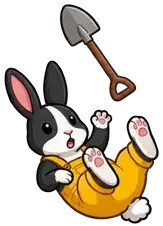
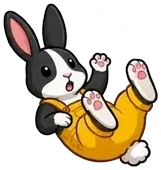
Clean redundant sprite props, add game rules & phase HUD, animate controller NPCs

diff --git a/games/i18n.js b/games/i18n.js
@@ -32,6 +32,73 @@ const GAME_TITLES_VI = {
   'Golden Carrot Bunny Dash': 'Thỏ Đua Cà Rốt Vàng'
 };
 
+const GAME_RULES = {
+  en: {
+    'Duck Slide Race': 'Ducks race to the GOLD buoy — watch out for whirlpools, waves & fake red buoys!',
+    'Mischievous Dino Eggs': '10 dino eggs wobble & swap — the first hatch is a rubber chicken, then Mama Dino picks the real egg!',
+    'Rebellious Cauldron': '10 magic orbs swirl around the cauldron — the frog zaps the real orb onto the winner\'s podium!',
+    'Dragon Treasure Guard': 'Chests shuffle while the dragon patrols — the first chest has a rubber duck, then the dragon sneezes out the real treasure!',
+    'Faulty Robot Factory': 'Robots roll down the conveyor — after a wrong stamp, the belt reverses to charge the real winner!',
+    'Haunted Hotel Lift': 'Remember each room\'s symbol! Follow the footprints past the ghost\'s trick to the real door!',
+    'Sneezing Flower Bee': 'The bee visits flowers in the garden — a sneeze blows it right onto the winning gardener\'s flower!',
+    'Candy Tornado': 'Golden candy rolls down the chutes — the cat pulls the switch so it lands in the winner\'s jar!',
+    'Hamster Turbo Wheels': 'Hamsters spin to power up 3 lights — a sunflower seed flips the switch to boost the real winner!',
+    'The Shape-Shifting Book': 'Memorize each student\'s symbol before the pages shuffle — the glowing bookmark reveals the winner!',
+    'Capybara Melon Delivery': 'Capybaras swim their melons to the gold ring — the current shifts to carry the real winner in!',
+    'Popcorn Cinema': 'Shake popcorn on the beat & FREEZE when music stops — the bonus beat spotlights the true winner!',
+    'Penguin Overslide': 'Penguins belly-slide toward the icy target — the one who stops closest without sliding off wins!',
+    'Secret Shell Swap': 'Spot the pearl before the 10 shells shuffle — the hermit crab points out the real pearl\'s owner!',
+    'Alien Costume Party': 'The UFO beam scans the dancers — after a shrink-ray mix-up, the disco ball picks the real winner!',
+    'Oversleeping Monsters': '3 alarm clocks ring! Sleepy pillows fool the first check, then the real wide-awake student wins!',
+    'Cat Cafe Mix-Up': 'Match each cake under its dome — the cat manager catches the runaway tray to reveal the winner!',
+    'Recycling Truck Mix-Up': 'Match paper, plastic & metal to the right bin — the truck scanner locks onto the real recycler!',
+    'Sock-Eating Washer': 'Socks spin inside the washer — the first match is a puppet, then the washer coughs up the winning pair!',
+    'Mystery Box Cats': 'Cats zoom around and dive into boxes when the bell rings — follow the laser dot to the winning box!',
+    'Toilet Paper Mummy': '3 fan levels unwrap the paper mummies — the rolling mascot pulls the last strip to reveal the winner!',
+    'Off-Beat Disco Chickens': 'Copy the DJ chicken\'s moves and FREEZE — the replay spotlight lands on the student with the perfect pose!',
+    'Frog Lily Pad Jump': 'Frogs hop across lily pads toward the golden pad — the dragonfly shows the real pad after the turtle swims off!',
+    'Pirate Parcel Mix-Up': 'The foam cannon fires through barrels, bridge & wheel — the parrot swings the bridge to open the winning parcel!',
+    'Weather Machine Cold': 'Clouds cycle through sun, rain & snow — a sunbeam bounces off the mirror to crown the winner with a rainbow!',
+    'Time Machine Mix-Up': 'Memorize the era symbols before portals swap — the dino robot opens the portal that brings the winner back!',
+    'Puppy Pool Float Race': 'Puppies paddle past hurdles toward the golden bone — the float gate swings open for the winning puppy!',
+    'Broken Invisibility Cloak': 'Students vanish under cloaks — follow the footprints, hiccup & shadow to spot the real winner!',
+    'Stubborn Vending Machine': 'A golden capsule rolls down the coil & seesaw — the walking can kicks the lever into the winner\'s tray!',
+    'Golden Carrot Bunny Dash': 'Bunnies race through the garden — the first carrot is a balloon, then the mole pops up the real golden carrot!'
+  },
+  vi: {
+    'Duck Slide Race': 'Vịt đua tới PHAO VÀNG — coi chừng xoáy nước, sóng lớn và phao đỏ giả đánh lừa!',
+    'Mischievous Dino Eggs': '10 quả trứng lắc lư đổi chỗ — quả nở đầu là gà cao su, khủng long mẹ sẽ lăn quả trứng thật ra!',
+    'Rebellious Cauldron': '10 quả cầu phép xoay quanh vạc — chú ếch vung đũa phép chỉ đúng quả cầu thật bay lên bục!',
+    'Dragon Treasure Guard': 'Rương kho báu nhảy đổi chỗ khi rồng tuần tra — rương đầu là vịt cao su, rồng hắt xì lộ ra rương thật!',
+    'Faulty Robot Factory': 'Robot chạy trên băng chuyền — sau pha đóng dấu nhầm, băng chuyền đảo chiều sạc điện cho người thắng!',
+    'Haunted Hotel Lift': 'Nhớ kỹ biểu tượng từng phòng! Theo dấu chân vượt qua cú lừa của bóng ma để mở đúng cửa thật!',
+    'Sneezing Flower Bee': 'Ong bay tìm hoa trong vườn — bông hoa đầu hắt xì thổi chú ong đậu trúng hoa của người chiến thắng!',
+    'Candy Tornado': 'Kẹo vàng lăn qua máng trượt — mèo thần tài gạt cần đổi ray đưa kẹo vào đúng lọ của người thắng!',
+    'Hamster Turbo Wheels': 'Hamster chạy thắp sáng 3 đèn — hạt hướng dương bật công tắc giúp chú hamster chiến thắng bứt tốc!',
+    'The Shape-Shifting Book': 'Ghi nhớ biểu tượng trước khi trang sách tráo đổi — dây đánh dấu phát sáng chỉ đúng người thắng!',
+    'Capybara Melon Delivery': 'Capybara đẩy dưa hấu về vòng đích vàng — dòng nước đổi chiều đưa quả dưa thật sự vào đích!',
+    'Popcorn Cinema': 'Lắc bắp rang đúng nhịp và ĐỨNG YÊN khi nhạc tắt — nhịp nhạc phụ sẽ chiếu đèn vào người thắng!',
+    'Penguin Overslide': 'Chim cánh cụt trượt bụng vào tâm bảng điểm — ai phanh chuẩn nhất không bị trượt lố sẽ thắng!',
+    'Secret Shell Swap': 'Nhớ vị trí ngọc trai trước khi 10 vỏ ốc tráo chỗ — cua ẩn sĩ sẽ gõ càng chỉ ra vỏ ốc thật!',
+    'Alien Costume Party': 'Tia UFO quét qua sàn nhảy — sau pha bắn nhầm tia thu nhỏ, quả cầu disco sẽ chọn người thắng thật!',
+    'Oversleeping Monsters': '3 hồi chuông báo thức vang lên! Bỏ qua chiếc gối giả, ai tỉnh giấc thật sự sẽ được gọi tên!',
+    'Cat Cafe Mix-Up': 'Nhớ loại bánh dưới nắp đậy trước khi đổi khay — mèo quản lý sẽ giữ lại đúng chiếc bánh chiến thắng!',
+    'Recycling Truck Mix-Up': 'Phân loại đúng rác tái chế vào thùng — máy quét của xe tải sẽ phát hiện đúng bạn phân loại chuẩn!',
+    'Sock-Eating Washer': '10 chiếc tất quay trong máy giặt — bỏ qua rối tất giả, máy giặt sẽ nhả ra đôi tất của người thắng!',
+    'Mystery Box Cats': 'Mèo chạy quanh rồi chui vào hộp khi chuông reo — chấm laser đỏ dẫn tới hộp nào thì người đó thắng!',
+    'Toilet Paper Mummy': 'Quạt thổi 3 cấp độ mở dần giấy cuốn — cuộn giấy mascot kéo dải cuối lộ diện học sinh chiến thắng!',
+    'Off-Beat Disco Chickens': 'Nhảy theo gà DJ rồi ĐỨNG YÊN — đèn sân khấu phát lại nhịp cuối để tìm người giữ tư thế chuẩn nhất!',
+    'Frog Lily Pad Jump': 'Ếch nhảy qua các lá sen tới lá sen vàng — chuồn chuồn đậu xuống chỉ ra lá sen vàng thật sự!',
+    'Pirate Parcel Mix-Up': 'Đại bác bắn bóng qua thùng gỗ, cầu treo & bánh lái — vẹt xoay bánh lái mở đúng kiện hàng kho báu!',
+    'Weather Machine Cold': 'Mây đổi qua nắng, mưa, tuyết — tia nắng phản chiếu gương tạo cầu vồng rực rỡ trên đầu người thắng!',
+    'Time Machine Mix-Up': 'Nhớ biểu tượng trước khi cổng thời gian đổi chỗ — robot khủng long mở đúng cổng đưa người thắng về!',
+    'Puppy Pool Float Race': 'Cún bơi vượt chướng ngại vật tới xương vàng — cổng phao mở lối cho chú cún chiến thắng băng qua!',
+    'Broken Invisibility Cloak': 'Cả lớp trùm áo tàng hình — lần theo dấu chân, tiếng nấc và cái bóng để tìm ra người chiến thắng!',
+    'Stubborn Vending Machine': 'Viên nang vàng lăn qua lò xo và bập bênh — lon nước có chân đá cần gạt thả quà vào khay người thắng!',
+    'Golden Carrot Bunny Dash': 'Thỏ đua tìm cà rốt vàng — củ đầu tiên là bóng bay, chuột chũi sẽ đẩy củ cà rốt vàng thật lên!'
+  }
+};
+
 const BANNER_EXACT_VI = {
   // Shared idle banners
   'Press ▶ Pick a name! or Space': 'Bấm ▶ Gọi tên ngay! hoặc phím Space',
@@ -494,7 +561,9 @@ const UI_STRINGS = {
     toastImportedBackup: n => `Imported ${n} class(es) from the backup`,
     toastImportedNames: n => `Imported ${n} names`,
     toastCopied: 'List copied',
-    toastAbsentFmt: n => `Skipped ${n} — picking again!`
+    toastAbsentFmt: n => `Skipped ${n} — picking again!`,
+    rulePrefix: '🎯 Rule: ',
+    phases: ['① Race & Shuffle', '② Twist Check!', '③ Final Pick!']
   },
   vi: {
     subVol1: 'Trò chơi gọi tên học sinh vui nhộn trên lớp',
@@ -578,7 +647,9 @@ const UI_STRINGS = {
     toastImportedBackup: n => `Đã nhập ${n} lớp học từ file sao lưu`,
     toastImportedNames: n => `Đã nhập ${n} tên học sinh`,
     toastCopied: 'Đã sao chép danh sách tên',
-    toastAbsentFmt: n => `Đã bỏ qua ${n} (vắng) — đang quay lại!`
+    toastAbsentFmt: n => `Đã bỏ qua ${n} (vắng) — đang quay lại!`,
+    rulePrefix: '🎯 Luật chơi: ',
+    phases: ['① Đua & Tráo đổi', '② Kiểm tra cú lừa!', '③ Chốt người thắng!']
   }
 };
 
@@ -591,6 +662,10 @@ function L() {
 function trTitle(title) {
   if (!title || curLang() !== 'vi') return title;
   return GAME_TITLES_VI[title] || title;
+}
+function trRule(title) {
+  const dict = GAME_RULES[curLang()] || GAME_RULES.en;
+  return dict[title] || '';
 }
 let _bIn = '', _bOut = '';
 function trBanner(text) {

diff --git a/index.html b/index.html
@@ -718,8 +718,18 @@ function frame(now) {
 
 function idleOverlay(title, t, y = 420) {
   banner(hasPool ? 'Press ▶ Pick a name! or Space' : 'Everyone has been picked! Press ↺ Start over', t);
-  const locTitle = trTitle(title);
-  ctx.save(); ctx.font = '800 64px "Baloo 2","Segoe UI",sans-serif'; ctx.textAlign = 'center';
+  const locTitle = trTitle(title), rule = typeof trRule === 'function' ? trRule(title) : '';
+  ctx.save();
+  if (rule) {
+    const rTxt = (L().rulePrefix || '🎯 ') + rule;
+    ctx.font = '700 22px "Baloo 2","Segoe UI",sans-serif';
+    const rw = Math.min(1180, ctx.measureText(rTxt).width + 44), rh = 40;
+    ctx.fillStyle = 'rgba(15,23,42,.86)'; ctx.strokeStyle = 'rgba(56,189,248,.85)'; ctx.lineWidth = 2.5;
+    roundRect(ctx, 790 - rw / 2, 102, rw, rh, 20); ctx.fill(); ctx.stroke();
+    ctx.fillStyle = '#f8fafc'; ctx.textAlign = 'center'; ctx.textBaseline = 'middle';
+    ctx.fillText(rTxt, 790, 123, rw - 28);
+  }
+  ctx.font = '800 64px "Baloo 2","Segoe UI",sans-serif'; ctx.textAlign = 'center';
   ctx.lineWidth = 10; ctx.strokeStyle = '#0f172a'; ctx.fillStyle = '#fff';
   ctx.strokeText(locTitle, 800, y); ctx.fillText(locTitle, 800, y);
   if (hasPool) {
@@ -739,10 +749,30 @@ function drawFx(r) {
   (r.fx || []).forEach(f => { const k = (rt - f.t0) / f.dur; if (k >= 0 && k < 1 && f.atlas) drawBurst(f, k); else if (k >= 0 && k < 1) drawImg(f.img, f.x, f.y, f.w * (.6 + .4 * k), { alpha: 1 - k, anchor: 'bottom', rot: f.rot || 0 }); });
   if (r.fx) r.fx = r.fx.filter(f => rt - f.t0 < f.dur);
 }
+function phaseHud(r) {
+  const phs = L().phases; if (!phs) return;
+  const te = r.now - r.TW, step = r.phase === 'done' || te >= 1.35 ? 2 : te >= 0 ? 1 : 0;
+  const cols = ['#38bdf8', '#fbbf24', '#34d399'];
+  ctx.save(); ctx.font = '700 18px "Baloo 2","Segoe UI",sans-serif'; ctx.textAlign = 'center'; ctx.textBaseline = 'middle';
+  const ws = phs.map(s => ctx.measureText(s).width + 28), gap = 10, total = ws.reduce((a, b) => a + b, 0) + gap * 2;
+  let x = 790 - total / 2; const y = 102, h = 32;
+  for (let i = 0; i < 3; i++) {
+    const on = i === step, done = i < step, w = ws[i];
+    ctx.fillStyle = on ? cols[i] : done ? 'rgba(15,23,42,.82)' : 'rgba(15,23,42,.62)';
+    ctx.strokeStyle = on ? '#ffffff' : done ? cols[i] : 'rgba(255,255,255,.25)';
+    ctx.lineWidth = on ? 2.5 : 1.5;
+    roundRect(ctx, x, y, w, h, 16); ctx.fill(); ctx.stroke();
+    ctx.fillStyle = on ? '#0f172a' : done ? cols[i] : 'rgba(248,250,252,.72)';
+    ctx.fillText(phs[i], x + w / 2, y + h / 2 + 1);
+    x += w + gap;
+  }
+  ctx.restore();
+}
 function hud(r, t, dt) {
   FX.draw(r, dt);
   CAM.end();
   banner(r.banner, t);
+  phaseHud(r);
   if (r.phase !== 'done') timerChip(Math.max(0, Math.ceil(r.T - r.now)));
   r.confetti.forEach(c => { c.vy += 900 * dt; c.x += c.vx * dt; c.y += c.vy * dt; c.vx *= .99; c.r += c.vr * dt;
     ctx.save(); ctx.translate(c.x, c.y); ctx.rotate(c.r); ctx.fillStyle = c.c; ctx.fillRect(-c.w / 2, -c.h / 2, c.w, c.h); ctx.restore(); });

diff --git a/games/g30-bunny.js b/games/g30-bunny.js
@@ -64,14 +64,13 @@
       const rt = r.now, te = rt - r.TW, done = r.phase === 'done', D = r.decoy, Wn = r.winner;
       drawImg(done || te > 2.9 ? 'p17' : 'p16', BASKET[0], BASKET[1] + 40, 140, { anchor: 'bottom' });
       // balloon carrot drifting up and the mole
-      if (!r.plain && D && te > .1 && !done) {
+      if (!r.plain && D && te > .6 && !done) {
         const [dx] = this.pos(r, D, rt), k = clamp((te - .6) / 2);
-        if (te < .6) drawImg('p25', dx + 40, D.ly - 60, 60); else balloon(dx + 40 + k * 120, D.ly - 60 - k * 700, rt);
+        balloon(dx + 40 + k * 120, D.ly - 60 - k * 700, rt);
       }
       if (te > (r.plain ? .8 : 1.1) && !done) {
         const [wx] = this.pos(r, Wn, r.TW + (r.plain ? 1.1 : 1.8)), k = clamp((te - 1.1) / .3);
         drawImg(['p11', 'p8', 'p9', 'p10'][Math.min(3, Math.floor(k * 4))], wx + 50, Wn.ly + 10, 90, { anchor: 'bottom' });
-        if (te > 1.5 && te < (r.plain ? 1.1 : 1.8) + .1) drawImg('p25', wx + 40, Wn.ly - 60 - (te - 1.5) * 20, 70);
       }
       const order = [...r.players].sort((a, b) => a.ly - b.ly);
       for (const p of order) {
@@ -82,13 +81,12 @@
         if (p === D && te > 0) pose = !r.plain && te > .6 ? 'balloon' : 'patch';
         if (p === Wn && te > (r.plain ? 1.1 : 1.8)) pose = 'mole';
         charImg(p.av, pose, x, y + 8, 92);
-        if (p === Wn && te > (r.plain ? 1.1 : 1.8)) drawImg('p25', x + 34, y - 50, 54);
         tagC(p.name, x - 100, y - 14, (r.leader === p && te < 0) || (p === Wn && te > 1.6));
       }
-      // king bunny referee
-      let kp = 'p0';
+      // king bunny referee hops along the garden sideline
+      let kp = Math.floor(rt * 3) % 2 ? 'p0' : 'p3';
       if (rt < 1) kp = 'p3'; else if (!r.plain && te > .6 && te < 1.6) kp = 'p6'; else if (done) kp = 'p5';
-      drawImg(kp, 1500, 300, 130, { anchor: 'bottom' });
+      drawImg(kp, 1470 + Math.sin(rt * 1.7) * 45, 310 + Math.cos(rt * 1.4) * 60 - Math.abs(Math.sin(rt * 6.5)) * 20, 130, { anchor: 'bottom', flip: Math.cos(rt * 1.7) > 0 });
       if (done) {
         const k = clamp((rt - r.doneAt) / .4);
         drawImg('p48', BASKET[0] - 60, BASKET[1] - 80, 260, { alpha: .7 });
@@ -100,7 +98,7 @@
     idle(t) {
       drawImg('p16', BASKET[0], BASKET[1] + 40, 140, { anchor: 'bottom' });
       for (let i = 0; i < 10; i++) charImg(i, 'bound', X0 + ((t * 45 + i * 101) % (X1 - X0)), laneY(i, 10) - Math.abs(Math.sin(t * 8 + i)) * 18 + 8, 92);
-      drawImg('p0', 1500, 300, 130, { anchor: 'bottom' });
+      drawImg(Math.floor(t * 2.5) % 2 ? 'p0' : 'p3', 1470 + Math.sin(t * 1.6) * 45, 310 + Math.cos(t * 1.3) * 55 - Math.abs(Math.sin(t * 6)) * 18, 130, { anchor: 'bottom', flip: Math.cos(t * 1.6) > 0 });
     },
     onFinish() { FX.sparkle(BASKET[0] - 60, BASKET[1] - 100, 36, ['#ffd84a', '#ff9f43', '#ffffff']); },
     winBanner: r => '🥕 ' + r.winner.name + ' brings home the golden carrot!',

diff --git a/games/g29-vending.js b/games/g29-vending.js
@@ -79,7 +79,8 @@
     render(r, t) {
       const rt = r.now, te = rt - r.TW, done = r.phase === 'done', D = r.decoy, Wn = r.winner;
       const stuck = !r.plain && te > .4 && te < 1.4;
-      drawImg(done ? 'p0' : te > .4 && te < 1.4 && !r.plain ? 'p1' : 'p0', MACH[0], MACH[1] + 120, 260);
+      const mHop = Math.abs(Math.sin(rt * 9)) * 10;
+      drawImg(done ? 'p0' : te > .4 && te < 1.4 && !r.plain ? 'p1' : 'p0', MACH[0] + Math.sin(rt * 3) * 12, MACH[1] + 120 - mHop, 260, { rot: Math.sin(rt * 14) * .025 });
       contraption(rt, stuck ? Math.sin(rt * 20) * .05 : Math.sin(rt * 2) * .15, !r.plain && te > 1 ? Math.min(1, (te - 1) * 3) : 0);
       for (const p of r.players) {
         const [x, y] = TRAYS[p.tray], lit = (p === Wn && te > 2.9) || done;
@@ -91,7 +92,8 @@
       for (const run of r.runs) { const k = (rt - run.at) / run.dur; if (k >= 0 && k <= 1) drawImg(run.cap, ...along(toTray(run.to), k), 36); }
       const b = !done && this.ball(r, rt);
       if (b) { FX.halo(b[0], b[1], 30, '#ffd84a', .6); drawImg('p10', b[0], b[1], 44); }
-      if (!r.plain && te > .7 && te < 1.6 && !done) { const k = ease(clamp((te - .7) / .3)); can(lerp(1050, LEVER[0] + 50, k), LEVER[1] + 10, rt, true); }
+      if (!r.plain && te > .7 && te < 1.6 && !done) { const k = ease(clamp((te - .7) / .3)); can(lerp(1020, LEVER[0] + 50, k), LEVER[1] + 10, rt, true); }
+      else if (!done) can(980 + Math.sin(rt * 2) * 55, LEVER[1] + 10, rt, true);
       for (const p of r.players) {
         if (done && p === Wn) continue;
         let pose = 'coin';
@@ -111,8 +113,9 @@
     },
 
     idle(t) {
-      drawImg('p0', MACH[0], MACH[1] + 120, 260);
+      drawImg('p0', MACH[0] + Math.sin(t * 2.5) * 10, MACH[1] + 120 - Math.abs(Math.sin(t * 8)) * 8, 260, { rot: Math.sin(t * 12) * .02 });
       contraption(t, Math.sin(t * 2) * .15, 0);
+      can(980 + Math.sin(t * 2) * 55, LEVER[1] + 10, t, true);
       TRAYS.forEach(([x, y]) => { ctx.save(); ctx.fillStyle = '#3d566e'; roundRect(ctx, x - 60, y + 10, 120, 24, 8); ctx.fill(); ctx.restore(); });
       const k = (t * .4) % 1; drawImg(CAPS[Math.floor(t * .4) % 4], ...along(toTray(Math.floor(t * .4) % 10), k), 36);
       KIDS.forEach(([x, y], i) => charImg(i, 'coin', x, y, 120));

diff --git a/games/g27-puppies.js b/games/g27-puppies.js
@@ -72,15 +72,13 @@
         if (p === D && te > 0) pose = !r.plain && te > .5 ? 'tail' : 'swim';
         if (p === Wn && te > 2.9) pose = 'idle';
         if (pose === 'swim') FX.every(r, 'w' + p.ly, .25, () => FX.splash(x - 40, y + 4, 1));
-        if (p === D && !r.plain && te > .5) drawImg(FLOATS[2], x, y + 4, 110, { rot });
-        charImg(p.av, pose, x, y + 6, 88);
+        charImg(p.av, pose, x, y + 6, 88, { rot: p === D && !r.plain && te > .5 ? Math.sin(rt * 10) * .12 : 0 });
         tagC(p.name, x - 100, y - 14, (r.leader === p && te < 0) || (p === Wn && te > 1.6));
       }
-      // otter lifeguard
-      drawImg(te > .5 && te < 1.6 && !r.plain ? 'p27' : 'p13', 1500, 300, 150, { anchor: 'bottom', flip: te > 1.6 });
+      // otter lifeguard patrols along the poolside
+      drawImg(te > .5 && te < 1.6 && !r.plain ? 'p27' : 'p13', 1475 + Math.sin(rt * 1.6) * 35, 310 + Math.cos(rt * 1.3) * 70 - Math.abs(Math.sin(rt * 6)) * 14, 150, { anchor: 'bottom', flip: te > 1.6 || Math.cos(rt * 1.6) > 0 });
       if (done) {
         const k = clamp((rt - r.doneAt) / .4);
-        drawImg('p22', GOAL[0] + 100, GOAL[1] - 150, 70);
         charImg(Wn.av, 'win', GOAL[0], GOAL[1] + 20, 190 * (.6 + .4 * ease(k)));
         tagC(Wn.name, GOAL[0], GOAL[1] + 44, true);
       }
@@ -91,7 +89,7 @@
       ctx.save(); ctx.fillStyle = '#ffd84a'; roundRect(ctx, GOAL[0] - 80, GOAL[1] - 10, 160, 50, 14); ctx.fill(); ctx.restore();
       drawImg('p22', GOAL[0], GOAL[1] - 10, 90, { anchor: 'bottom' });
       for (let i = 0; i < 10; i++) charImg(i, 'swim', X0 + ((t * 40 + i * 97) % (X1 - X0)), laneY(i, 10) + 6, 88);
-      drawImg('p13', 1500, 300, 150, { anchor: 'bottom' });
+      drawImg('p13', 1475 + Math.sin(t * 1.5) * 35, 310 + Math.cos(t * 1.2) * 65 - Math.abs(Math.sin(t * 5.5)) * 12, 150, { anchor: 'bottom', flip: Math.cos(t * 1.5) > 0 });
     },
     onFinish() { FX.splash(GOAL[0], GOAL[1], 30); FX.sparkle(GOAL[0], GOAL[1] - 100, 30); },
     winBanner: r => '🦴 ' + r.winner.name + ' reaches the golden bone!',

diff --git a/games/g25-weather.js b/games/g25-weather.js
@@ -45,15 +45,16 @@
 
     render(r, t) {
       const rt = r.now, te = rt - r.TW, done = r.phase === 'done', f = activeFake(r, rt), D = r.decoy, Wn = r.winner, w = this.weather(r, rt);
-      // the machine and its sneezy cloud mascot
+      // the machine chugs and its sneezy cloud mascot floats across the sky
       let mp = 'p12';
       if (te < 0) mp = w === 'sun' ? 'p12' : w === 'rain' ? 'p13' : 'p14';
       if (done) mp = 'p16';
-      drawImg(mp, MACH[0], MACH[1], 220);
+      const mx = MACH[0] + Math.sin(rt * 3) * 18, my = MACH[1] - Math.abs(Math.sin(rt * 8)) * 10;
+      drawImg(mp, mx, my, 220, { rot: Math.sin(rt * 10) * .025 });
       let cp = 'p1';
       if (!r.plain && te > .3 && te < 1.2) cp = te < .6 ? 'p6' : 'p2';
       if (done) cp = 'p10'; else if (te < 0 && w === 'snow') cp = 'p0';
-      drawImg(cp, MACH[0], MACH[1] - 190, 150);
+      drawImg(cp, MACH[0] - 80 + Math.sin(rt * 1.5) * 140, MACH[1] - 190 + Math.sin(rt * 3.5) * 18, 150, { flip: Math.cos(rt * 1.5) > 0 });
       drawImg('p39', ...MIRROR, 70, { alpha: !r.plain && te > 1.2 && te < 2.4 ? 1 : .5 });
       for (const p of r.players) {
         const [cx, cy] = cloudAt(p);
@@ -91,7 +92,8 @@
     },
 
     idle(t) {
-      drawImg('p12', MACH[0], MACH[1], 220); drawImg('p1', MACH[0], MACH[1] - 190, 150);
+      drawImg('p12', MACH[0] + Math.sin(t * 2.5) * 16, MACH[1] - Math.abs(Math.sin(t * 7)) * 8, 220, { rot: Math.sin(t * 8) * .02 });
+      drawImg('p1', MACH[0] - 80 + Math.sin(t * 1.4) * 140, MACH[1] - 190 + Math.sin(t * 3.2) * 16, 150, { flip: Math.cos(t * 1.4) > 0 });
       SPOTS.forEach(([x, y], i) => { drawImg(i % 3 ? 'p26' : 'p22', x, y - 220, 90); charImg(i, 'idle', x, y, 150); });
     },
     onFinish(r) { FX.sparkle(r.winner.sx, r.winner.sy - 180, 40, ['#ff6f6f', '#ffd84a', '#7cff9b', '#7cd0ff', '#b48cff']); },

diff --git a/games/g28-cloak.js b/games/g28-cloak.js
@@ -77,9 +77,10 @@
         const k = ease(clamp((te - 1.7) / .5)); ctx.beginPath(); ctx.moveTo(Wn.sx - 30, Wn.sy); ctx.lineTo(Wn.sx + 30, Wn.sy); ctx.lineTo(lerp(Wn.sx, START[0], k * .5) + 20, lerp(Wn.sy, START[1], k * .5)); ctx.lineTo(lerp(Wn.sx, START[0], k * .5) - 20, lerp(Wn.sy, START[1], k * .5)); ctx.closePath(); ctx.fill(); ctx.restore();
       }
       if (r.plain && te > 1.2 && !done) prints([Wn.sx, Wn.sy], clamp((te - 1.2) / .6));
-      // chameleon wizard with a scanner orb
-      drawImg('p19', MASCOT[0], MASCOT[1], 200);
-      drawImg('p10', MASCOT[0] - 70, MASCOT[1] - 160, 80, { alpha: .7 + .3 * Math.sin(rt * 5) });
+      // chameleon wizard patrols with his scanner orb
+      const mx = MASCOT[0] - 35 + Math.sin(rt * 1.4) * 55, my = MASCOT[1] + Math.cos(rt * 1.8) * 75 - Math.abs(Math.sin(rt * 5.5)) * 12;
+      drawImg('p19', mx, my, 200, { flip: Math.cos(rt * 1.4) > 0 });
+      drawImg('p10', mx - 70, my - 160 + Math.sin(rt * 4) * 10, 80, { alpha: .7 + .3 * Math.sin(rt * 5) });
       Wn.x = Wn.sx; Wn.y = Wn.sy - 90;
       if (done) {
         const k = clamp((rt - r.doneAt) / .4);
@@ -91,7 +92,9 @@
 
     idle(t) {
       SPOTS.forEach(([x, y], i) => charImg(i, Math.sin(t + i) > 0 ? 'ready' : 'gone', x, y, 150, { alpha: .4 + .6 * Math.abs(Math.sin(t * .6 + i)) }));
-      drawImg('p19', MASCOT[0], MASCOT[1], 200);
+      const mx = MASCOT[0] - 35 + Math.sin(t * 1.3) * 55, my = MASCOT[1] + Math.cos(t * 1.7) * 70 - Math.abs(Math.sin(t * 5)) * 10;
+      drawImg('p19', mx, my, 200, { flip: Math.cos(t * 1.3) > 0 });
+      drawImg('p10', mx - 70, my - 160 + Math.sin(t * 4) * 10, 80, { alpha: .8 });
     },
     onFinish(r) { FX.sparkle(r.winner.sx, r.winner.sy - 150, 40, ['#c27cff', '#7cf7ff', '#ffd84a']); },
     winBanner: r => '🫥 Found you, ' + r.winner.name + '!',

diff --git a/games/g26-time.js b/games/g26-time.js
@@ -60,7 +60,7 @@
     render(r, t) {
       const rt = r.now, te = rt - r.TW, done = r.phase === 'done', f = activeFake(r, rt), D = r.decoy, Wn = r.winner;
       const lay = te < 0 ? layout(r, rt) : r.final, memOpen = clamp((rt - .6) / .3) * (1 - clamp((rt - .6 - r.M) / .3));
-      drawImg('q0', MACH[0], MACH[1], 200);
+      drawImg('q0', MACH[0] + Math.sin(rt * 2.4) * 16, MACH[1] - Math.abs(Math.sin(rt * 6)) * 10, 200, { rot: Math.sin(rt * 8) * .02 });
       for (const p of r.players) {
         const { x, y } = lay.get(p); p.x = x; p.y = y;
         let open = memOpen, glow = false;

diff --git a/sw.js b/sw.js
@@ -1,4 +1,4 @@
-const CACHE_NAME = 'name-picker-vol5-v4';
+const CACHE_NAME = 'name-picker-vol5-v6';
 const PRECACHE = [
   "./",
   "./index.html",
